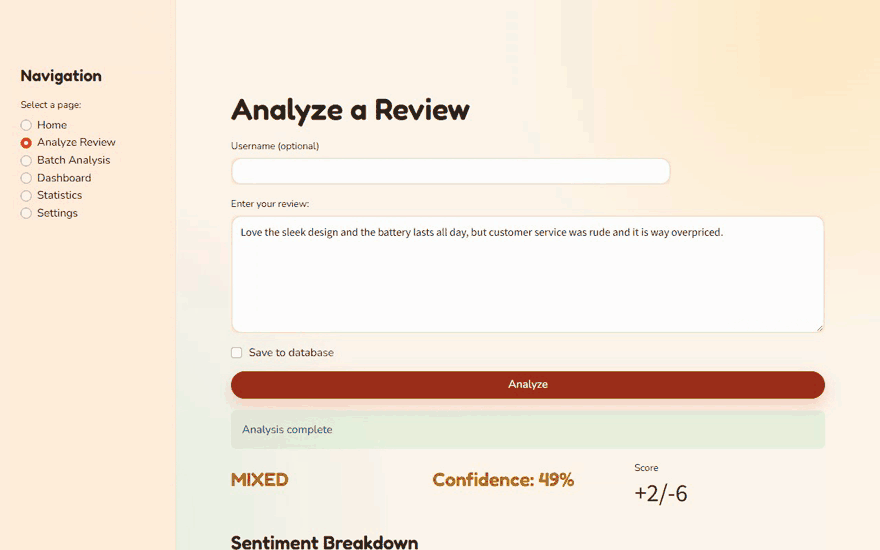
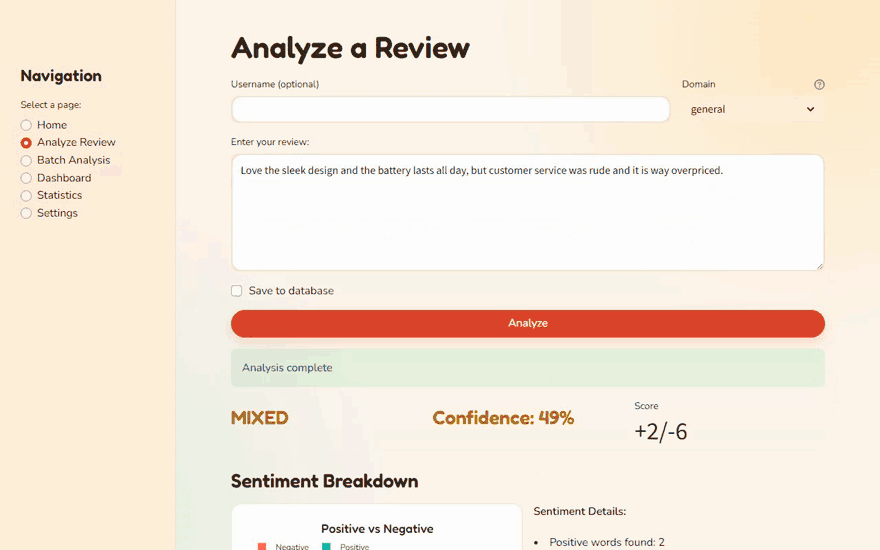
Sentiment card: domain weights; refreshed demo recording

diff --git a/src/data/site.ts b/src/data/site.ts
@@ -149,7 +149,7 @@ export const systems: SystemProject[] = [
     period: 'Dec 2025 – Jan 2026',
     stack: ['Python', 'spaCy', 'Flask', 'SQLite', 'Streamlit', 'Plotly'],
     facts: [
-      'Classifies reviews as positive, negative, neutral, or mixed using a 6,800-term graded lexicon with negation handling and emoji sarcasm cues, plus aspect-based analysis.',
+      'Classifies reviews as positive, negative, neutral, or mixed using a 6,800-term graded lexicon with negation handling and emoji sarcasm cues, plus aspect-based analysis and domain-specific weights for restaurant, software, hotel, and retail reviews.',
       'Flask REST API (15+ endpoints, OpenAPI docs) and Streamlit dashboard; in local benchmarks, cut runtime for 500 reviews from 17s to 5s with batched spaCy processing, lemma caching, and bulk SQLite inserts.',
       'Rule-based by design: no trained model, and no labeled accuracy evaluation yet.',
     ],
